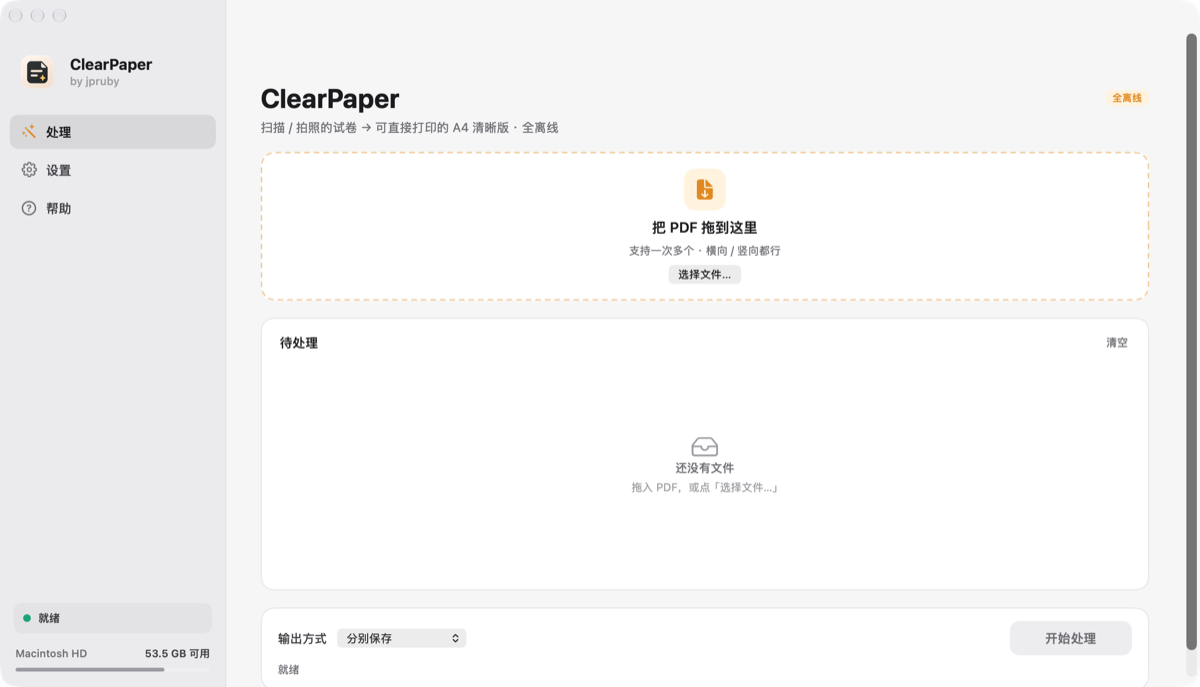
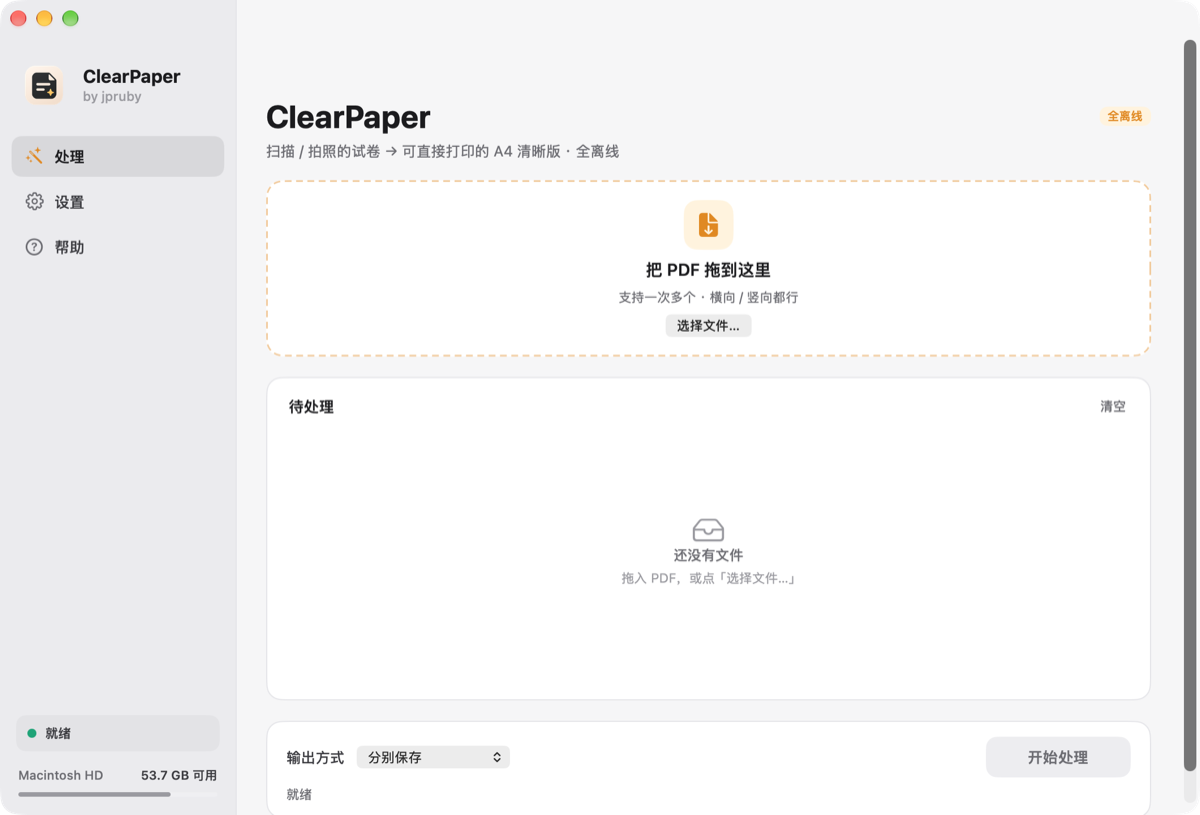
macOS: allow a much narrower window
- minSize 940x640 -> 760x540; sidebar 236 -> 208pt; page padding 36 -> 26pt
- Let info-card body labels compress so text wraps instead of being clipped
- Refresh README screenshot

diff --git a/macos/main.swift b/macos/main.swift
@@ -147,7 +147,7 @@ enum T {
     static let redSoft   = dyn(hex(0xFDECEC), hex(0x3A2023))
 
     static let cardR: CGFloat = 14
-    static let sidebarW: CGFloat = 236
+    static let sidebarW: CGFloat = 208
 }
 
 // MARK: - 基础小组件
@@ -185,6 +185,7 @@ func hstack(_ views: [NSView], spacing: CGFloat = 8,
     s.translatesAutoresizingMaskIntoConstraints = false
     return s
 }
+
 
 func vstack(_ views: [NSView], spacing: CGFloat = 10,
             alignment: NSLayoutConstraint.Attribute = .leading) -> NSStackView {
@@ -301,8 +302,8 @@ final class PageScroll: NSScrollView {
             doc.trailingAnchor.constraint(equalTo: contentView.trailingAnchor),
             doc.topAnchor.constraint(equalTo: contentView.topAnchor),
             doc.widthAnchor.constraint(equalTo: contentView.widthAnchor),
-            stack.leadingAnchor.constraint(equalTo: doc.leadingAnchor, constant: 36),
-            stack.trailingAnchor.constraint(equalTo: doc.trailingAnchor, constant: -36),
+            stack.leadingAnchor.constraint(equalTo: doc.leadingAnchor, constant: 26),
+            stack.trailingAnchor.constraint(equalTo: doc.trailingAnchor, constant: -26),
             stack.topAnchor.constraint(equalTo: doc.topAnchor, constant: 54),
             stack.bottomAnchor.constraint(equalTo: doc.bottomAnchor, constant: -28),
         ])
@@ -894,7 +895,11 @@ final class App: NSObject, NSApplicationDelegate, NSTableViewDataSource, NSTable
         window.titlebarAppearsTransparent = true
         window.styleMask.insert(.fullSizeContentView)
         window.backgroundColor = T.canvas
-        window.minSize = NSSize(width: 940, height: 640)
+        window.minSize = NSSize(width: 760, height: 540)
+        if let spec = ProcessInfo.processInfo.environment["SCANPDF_SIZE"] {
+            let parts = spec.lowercased().split(separator: "x").compactMap { Double($0) }
+            if parts.count == 2 { window.setContentSize(NSSize(width: parts[0], height: parts[1])) }
+        }
         window.center()
 
         let root = ColorView(color: T.canvas)
@@ -1328,6 +1333,8 @@ final class App: NSObject, NSApplicationDelegate, NSTableViewDataSource, NSTable
         let b = label(body, 11.5, .regular, T.sub)
         b.maximumNumberOfLines = 0
         b.lineBreakMode = .byWordWrapping
+        b.setContentCompressionResistancePriority(.defaultLow, for: .horizontal)
+        b.setContentHuggingPriority(.defaultLow, for: .horizontal)
         let stack = vstack([box, t, b], spacing: 8)
         stack.translatesAutoresizingMaskIntoConstraints = false
         t.widthAnchor.constraint(equalTo: stack.widthAnchor).isActive = true
